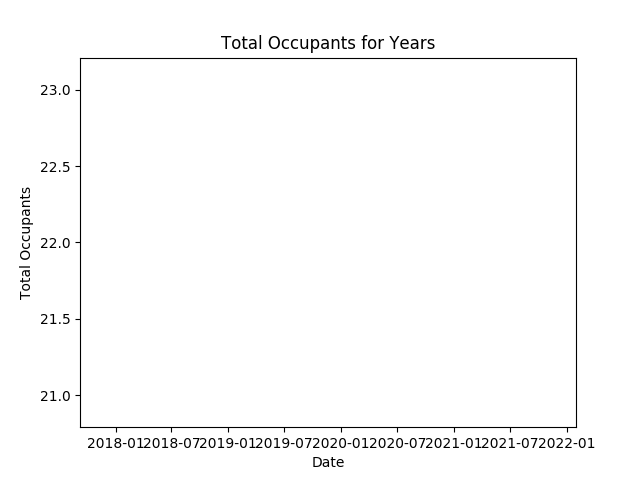
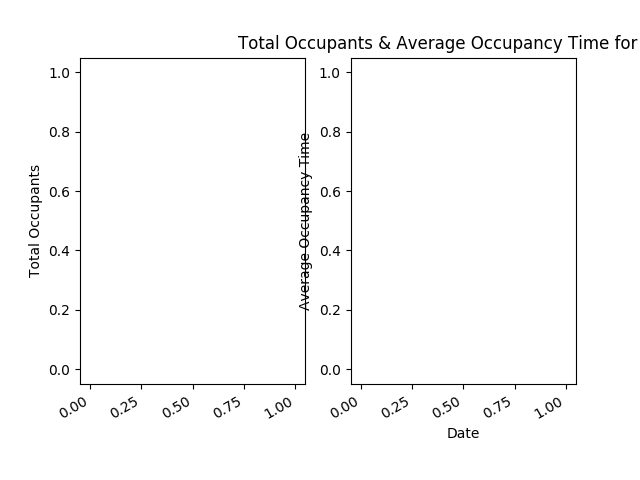
tried to add another graph

diff --git a/WebApp/stats/templates/html/stats.html b/WebApp/stats/templates/html/stats.html
@@ -5,13 +5,13 @@
 {% block body %}
 {% if form %}
 	<form action="" method="post">
-    {% csrf_token %}
-    {{ form }}
-    <input type="submit" value="Submit">
-</form>
+        {% csrf_token %}
+        {{ form }}
+        <input class="stats-input" type="submit" value="Submit">
+    </form>
 {% endif %}
 {% if stats %}
-	<h1 class="table-form-request">Viewing Statistics For Room: {{ stats.ID }}</h1>
+	<h1 class="table-form-request">Viewing Statistics For Room {{ stats.ID }}</h1>
 	<!-- Day Table -->
 	<h2>Days</h2>
     <img class="stats-graph" src="{% static "days.png" %}">

diff --git a/WebApp/static/css/style.css b/WebApp/static/css/style.css
@@ -181,10 +181,3 @@ th {
 .table-form-request {
   text-align: center;
 }
-
-.stats-graph {
-  display: block;
-  margin-left: auto;
-  margin-right: auto;
-  width: 50%;
-}

diff --git a/WebApp/stats/views.py b/WebApp/stats/views.py
@@ -7,6 +7,7 @@ import time
 import datetime
 import threading
 import matplotlib.pyplot as plt
+import matplotlib.dates as mdates
 from floor.models import Room
 from django.db.models import Sum, Avg, F
 from django.contrib.auth.decorators import login_required
@@ -22,22 +23,37 @@ def get_stats(ID):
 	return stats
 
 def createGraph(stats, duration=''):
+	# remove old graphs
+	if os.path.exists('stats/static/days.png'):
+		os.remove('stats/static/days.png')
+	if os.path.exists('stats/static/months.png'):
+		os.remove('stats/static/months.png')
+	if os.path.exists('stats/static/years.png'):
+		os.remove('stats/static/years.png')
 	x = []
 	y = []
+	z = []
 	for obj in stats:
 		x.append(obj.date)
 		y.append(obj.totalOccupants)
-	plt.plot(x, y)
+		z.append(obj.avgOccLength.total_seconds())
+	fig, (ax1, ax2) = plt.subplots(1, 2)
+	ax1.bar(x, y, align='center', alpha=0.5)
+	ax2.bar(x, z, align='center', alpha=0.5)
+	fig.autofmt_xdate()
+	ax1.fmt_xdata = mdates.DateFormatter('%Y-%m-%d')
+	ax2.fmt_xdata = mdates.DateFormatter('%Y-%m-%d')
 	plt.xlabel('Date')
-	plt.ylabel('Total Occupants')
+	ax1.set_ylabel('Total Occupants')
+	ax2.set_ylabel('Average Occupancy Time')
 	if duration == 'day':
-		plt.title('Total Occupants for Days')
+		plt.title('Total Occupants & Average Occupancy Time for Days')
 		plt.savefig('stats/static/days.png')
 	elif duration == 'month':
-		plt.title('Total Occupants for Months')
+		plt.title('Total Occupants & Average Occupancy Time for Months')
 		plt.savefig('stats/static/months.png')
 	elif duration == 'year':
-		plt.title('Total Occupants for Years')
+		plt.title('Total Occupants & Average Occupancy Time for Years')
 		plt.savefig('stats/static/years.png')
 	plt.close()
 
@@ -50,13 +66,6 @@ def index(request):
 		form = RoomRequestForm(request.POST)
 		if form.is_valid():
 			stats = get_stats(form.data['room'])
-			# remove old graphs
-			if os.path.exists('stats/static/days.png'):
-				os.remove('stats/static/days.png')
-			if os.path.exists('stats/static/months.png'):
-				os.remove('stats/static/months.png')
-			if os.path.exists('stats/static/years.png'):
-				os.remove('stats/static/years.png')
 			# create and save new graphs
 			createGraph(stats['day'], duration='day')
 			createGraph(stats['month'], duration='month')

diff --git a/WebApp/stats/forms.py b/WebApp/stats/forms.py
@@ -1,4 +1,4 @@
 from django import forms
 
 class RoomRequestForm(forms.Form):
-	room = forms.CharField(label='roomID', max_length='5')
+	room = forms.CharField(label='Room ID', max_length='5')
